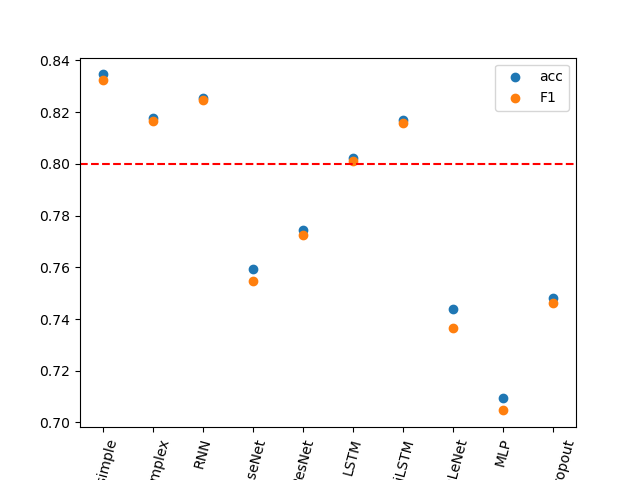
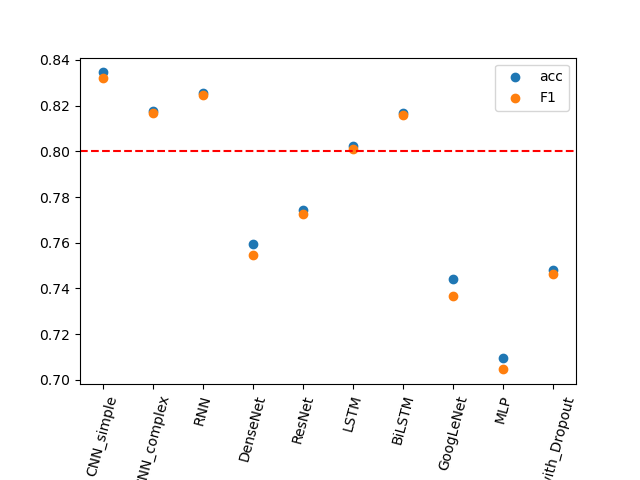
final-clean

diff --git a/DLongpu.py b/DLongpu.py
@@ -341,6 +341,7 @@ if __name__ == '__main__':
         plt.scatter(range(0, len(avaliable_models)), acc_list)
         plt.scatter(range(0, len(avaliable_models)), F1_list)
         plt.legend(["acc", "F1"])
+        plt.subplots_adjust(bottom=0.2)
         plt.xticks(range(0, len(avaliable_models)), avaliable_models,rotation=75)
         plt.axhline(y=0.8, color='r', linestyle='--')
         plt.savefig("plot/all_acc_F1.png")

diff --git a/dataprocess.py b/dataprocess.py
@@ -1,13 +1,6 @@
-import torch
-import torch.nn as nn
-import torch.utils.data as Data
-import torch.optim as optim
-import torch.nn.functional as F
 import numpy as np
 import pandas as pd
-from collections import Counter
 import os
-import json
 import pickle
 
 
